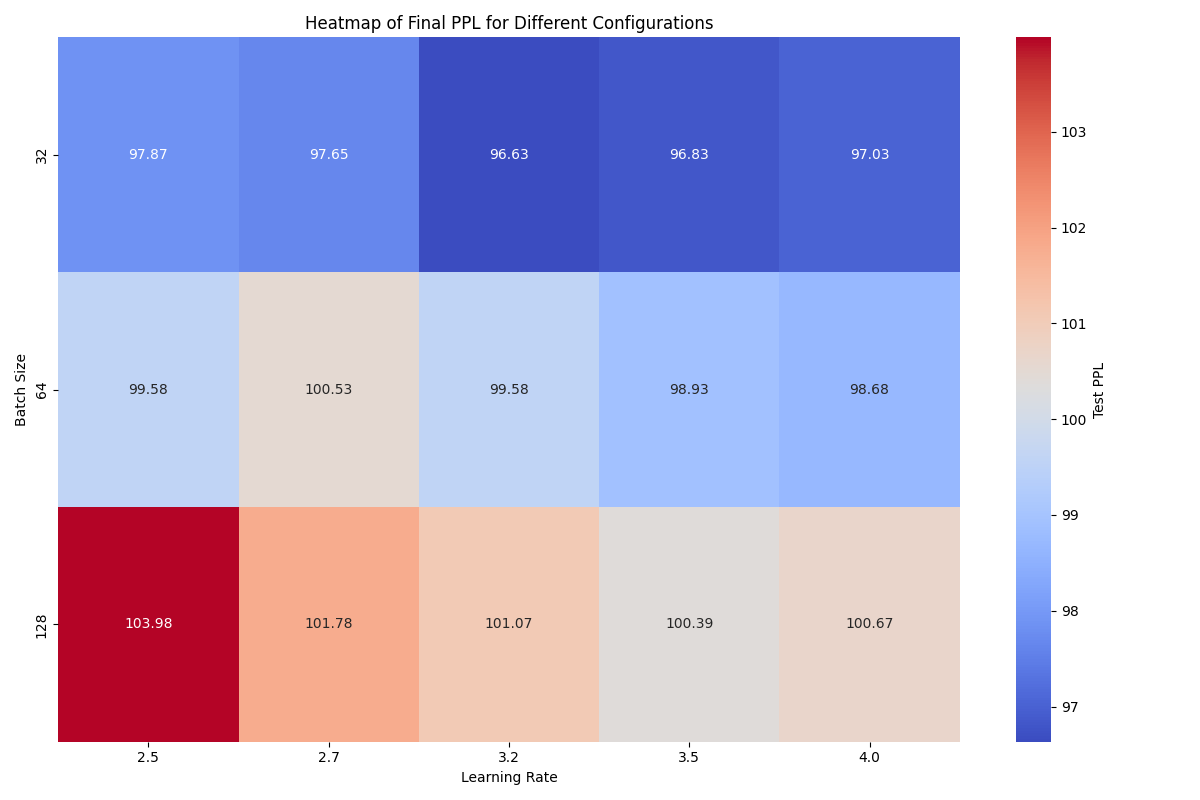
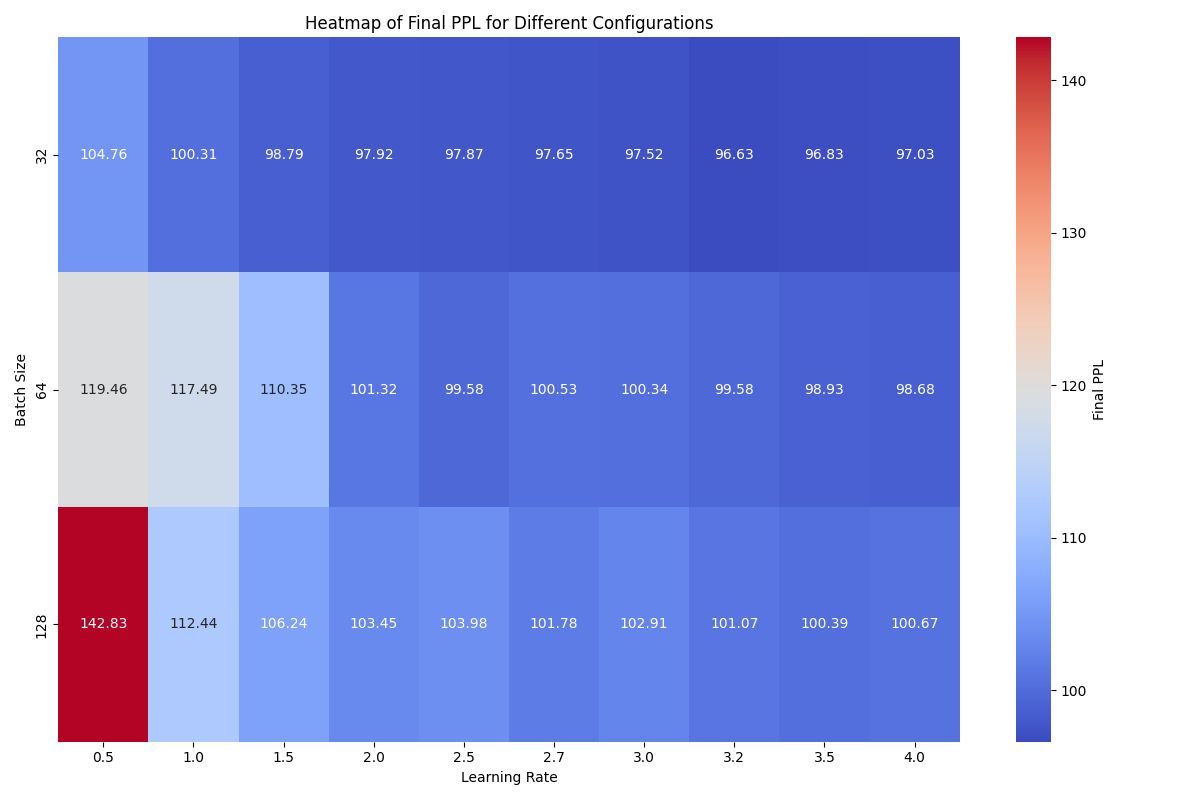
Update LSTM configuration: refine learning rates and dropout values, enhance CSV processing for results aggregation

diff --git a/256181_Alessia_Ianes/LM/part_B/post_processing.py b/256181_Alessia_Ianes/LM/part_B/post_processing.py
@@ -5,7 +5,7 @@ import seaborn as sns
 import matplotlib.pyplot as plt
 
 # Directory contenente i file CSV
-results_dir = 'results/LSTM_weight_tying/'
+results_dir = 'results/LSTM_wt_vd/'
 
 # Funzione per estrarre i parametri dal nome del file
 def extract_params_from_filename(filename):
@@ -18,27 +18,45 @@ def extract_params_from_filename(filename):
     return lr, bs
 
 # Leggi tutti i file CSV nella directory
-csv_files = [f for f in os.listdir(results_dir) if f.endswith('.csv')]
+# Regex to match the expected filename pattern
+filename_pattern = re.compile(r'lr_([\d.]+)_bs_(\d+)')
+csv_files = [f for f in os.listdir(results_dir) if f.endswith('.csv') and filename_pattern.search(f)]
 
 # Estrai i dati da ogni file e aggiungi i parametri estratti
 all_results = []
 for csv_file in csv_files:
     file_path = os.path.join(results_dir, csv_file)
     
-    # Carica solo la colonna "Final PPL"
-    df = pd.read_csv(file_path, usecols=['Test PPL'])
-    
-    # Estrai Batch Size e Learning Rate dal nome del file
-    lr, bs = extract_params_from_filename(csv_file)
-    
-    # Aggiungi le colonne "Batch Size" e "Learning Rate" al DataFrame
-    df['Batch Size'] = bs
-    df['Learning Rate'] = lr
-    
-    all_results.append(df)
+    try:
+        # Estrai Batch Size e Learning Rate dal nome del file
+        lr, bs = extract_params_from_filename(csv_file)
+        
+        # Carica solo la colonna "Test PPL" e prendi il primo valore
+        # Assumiamo che tutti i valori in questa colonna siano uguali (il PPL finale del test)
+        df_ppl = pd.read_csv(file_path, usecols=['Test PPL'])
+        if df_ppl.empty:
+            print(f"Warning: Skipping empty file {csv_file}")
+            continue
+            
+        final_ppl = df_ppl['Test PPL'].iloc[0]
+        
+        # Aggiungi i risultati come dizionario alla lista
+        all_results.append({
+            'Batch Size': bs,
+            'Learning Rate': lr,
+            'Test PPL': final_ppl
+        })
+    except Exception as e:
+        print(f"Error processing file {csv_file}: {e}")
+        continue # Skip this file if there's an error
 
-# Combina tutti i DataFrame in uno solo
-results_df = pd.concat(all_results, ignore_index=True)
+# Crea il DataFrame finale direttamente dalla lista di dizionari
+results_df = pd.DataFrame(all_results)
+
+# Salva tutti i risultati aggregati (opzionale, ma utile)
+all_results_filename = os.path.join(results_dir, 'all_aggregated_results.csv')
+results_df.to_csv(all_results_filename, index=False)
+print(f'All aggregated results successfully saved in {all_results_filename}')
 
 # Assicurati che i dati abbiano le colonne necessarie
 required_columns = {'Batch Size', 'Learning Rate', 'Test PPL'}

diff --git a/256181_Alessia_Ianes/LM/part_B/main.py b/256181_Alessia_Ianes/LM/part_B/main.py
@@ -40,10 +40,10 @@ if __name__ == "__main__":
     emb_size = 300 # Embedding size to test
     vocab_len = len(lang.word2id)
     clip = 5 # Clip the gradient
-    lr_values = [2.5, 2.7, 3.2, 3.5, 4.0] # Learning rates to test
+    lr_values = [3.2, 3.5, 3.7, 4.0] # Learning rates to test
     batch_sizeT = [32, 64, 128]
-    emb_dout = [0.1]
-    out_dout = [0.4]
+    emb_dout = [0.1, 0.15]
+    out_dout = [0.35, 0.4]
 
     # Create a directory to save the results, if it doesn't exist
     os.makedirs('results/LSTM_wt_vd/plots', exist_ok=True)
